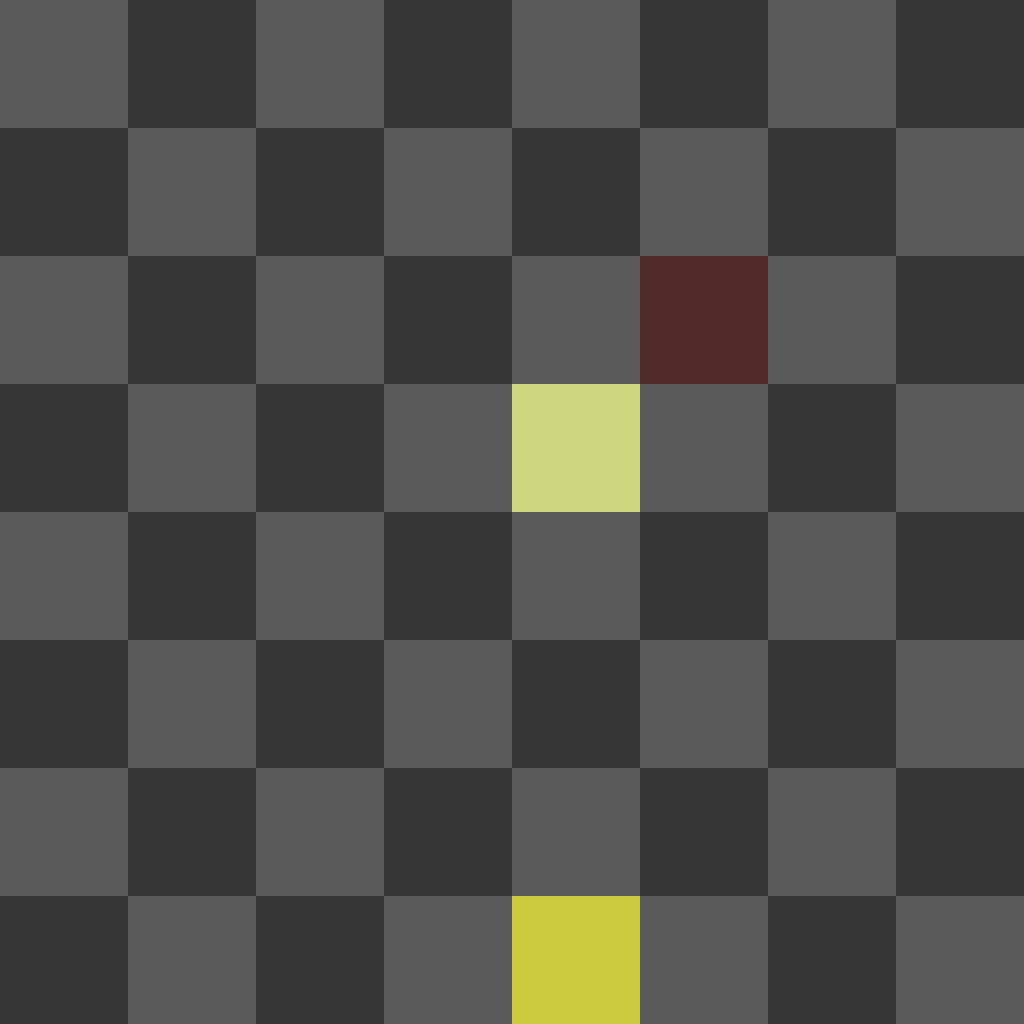
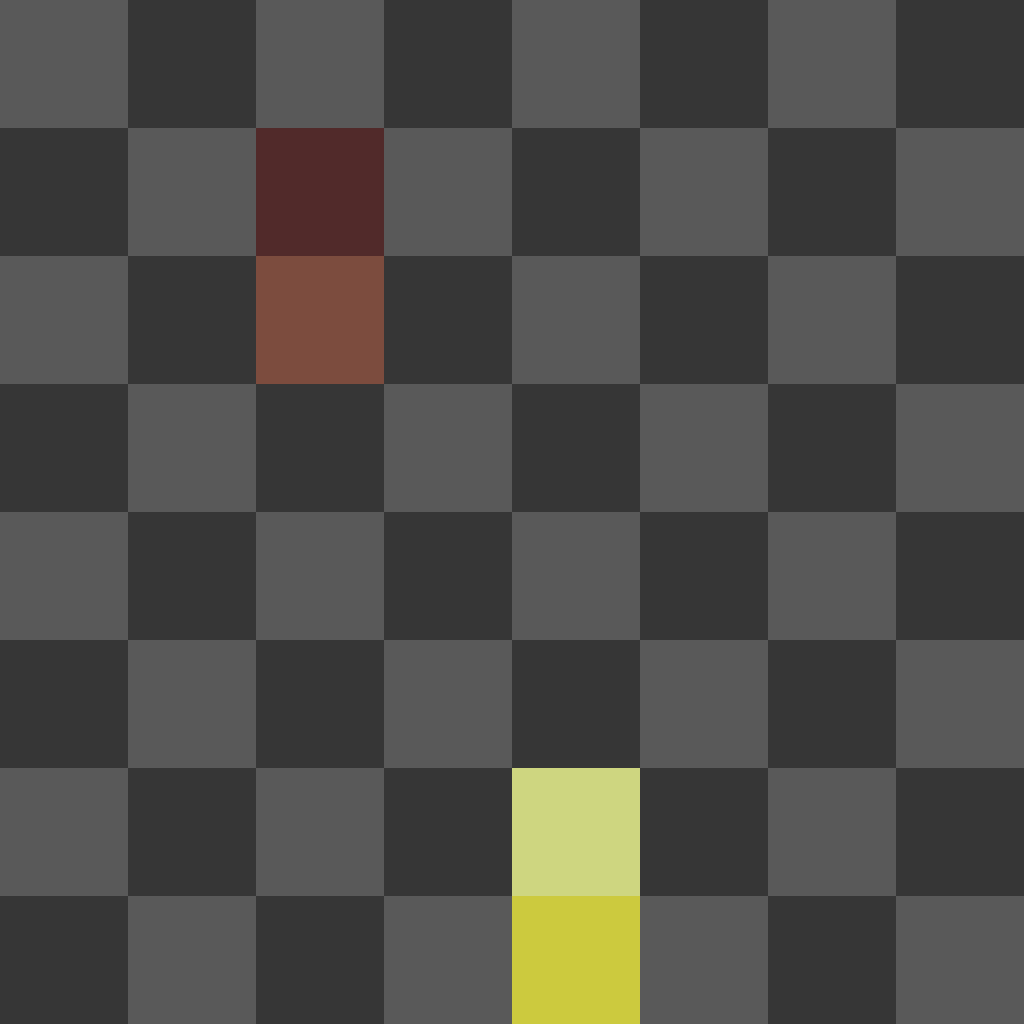
- fix error with win % for black, may still need tweaking as seems very low at the moment

diff --git a/src/board/mod.rs b/src/board/mod.rs
@@ -1,5 +1,5 @@
 use core::str;
-use std::{process::exit, sync::Arc};
+use std::{num, process::exit, sync::Arc};
 
 use image::ImageReader;
 use serde::{Deserialize, Serialize};
@@ -56,28 +56,35 @@ pub struct StockfishResponse {
     continuation: String,
 }
 
-
 pub async fn get_html(url: String) -> Result<String, Error> {
     let res = reqwest::get(url).await;
 
-	if res.is_err() {
-		return Err(Error::BasicError(format!("Error fetching html {:?}", res.err())));
-	}
+    if res.is_err() {
+        return Err(Error::BasicError(format!(
+            "Error fetching html {:?}",
+            res.err()
+        )));
+    }
 
-	let res = res.unwrap();
+    let res = res.unwrap();
 
-	if res.status().as_u16() != 200 {
-		return Err(Error::BasicError(format!("Error fetching html {:?}", res.status())));
-	}
+    if res.status().as_u16() != 200 {
+        return Err(Error::BasicError(format!(
+            "Error fetching html {:?}",
+            res.status()
+        )));
+    }
 
-	let body = res.text().await;
+    let body = res.text().await;
 
-	if body.is_err() {
-		return Err(Error::BasicError(format!("Error fetching html {:?}", body.err())));
-	}
-	
+    if body.is_err() {
+        return Err(Error::BasicError(format!(
+            "Error fetching html {:?}",
+            body.err()
+        )));
+    }
 
-	Ok(body.unwrap())
+    Ok(body.unwrap())
 }
 
 pub async fn get_stock_fish(url: Arc<Mutex<&str>>) -> Result<StockfishResponse, Error> {
@@ -101,13 +108,11 @@ pub async fn parse_html<'a>(
     let url = url.lock().await;
     let url = url.to_string();
 
-	let channel = channel.lock().await;
-	let channel = channel.to_string();
+    let channel = channel.lock().await;
+    let channel = channel.to_string();
     let mut board = [[0u8; 8]; 8];
     // set board at 3, 5 to 1
     let html = get_html(url).await?;
-
-
 
     let dom = tl::parse(html.as_str(), tl::ParserOptions::default()).unwrap();
     // get title
@@ -132,11 +137,9 @@ pub async fn parse_html<'a>(
     let orientation_b = dom.get_elements_by_class_name("player").next();
 
     if orientation_b.is_none() {
-		return Err(Error::BasicError("Orientation not found".to_string()));
+        return Err(Error::BasicError("Orientation not found".to_string()));
     }
-	let orientation_b = orientation_b.unwrap();
-	
-
+    let orientation_b = orientation_b.unwrap();
 
     // let orientation_w = dom.get_elements_by_class_name("orientation-black").next();
     // let classes = orientation_b
@@ -182,34 +185,58 @@ pub async fn parse_html<'a>(
         last_moves_x_y_vec.push((x, y));
     }
 
-	let a = dom.get_elements_by_class_name("player");
+    let a = dom.get_elements_by_class_name("player");
 
-	let mut classes = None;
-	for i in a {
-		// if child a haas href of '/@/{channel}' then we are player
-		let child = i.get(dom.parser()).unwrap().as_tag().unwrap().children().all(dom.parser()).first().unwrap();
-		let href = child.as_tag().unwrap().attributes().get("href").unwrap().unwrap();
-		let href = str::from_utf8(href.as_bytes()).unwrap();
-		if href.to_lowercase().contains(channel.to_lowercase().as_str()) {
-			println!("Player found at index: {:?}", i);
-			classes = Some(i.get(dom.parser()).unwrap().as_tag().unwrap().attributes().class().unwrap());
-			break;
-		}
-	}
+    let mut classes = None;
+    for i in a {
+        // if child a haas href of '/@/{channel}' then we are player
+        let child = i
+            .get(dom.parser())
+            .unwrap()
+            .as_tag()
+            .unwrap()
+            .children()
+            .all(dom.parser())
+            .first()
+            .unwrap();
+        let href = child
+            .as_tag()
+            .unwrap()
+            .attributes()
+            .get("href")
+            .unwrap()
+            .unwrap();
+        let href = str::from_utf8(href.as_bytes()).unwrap();
+        if href
+            .to_lowercase()
+            .contains(channel.to_lowercase().as_str())
+        {
+            println!("Player found at index: {:?}", i);
+            classes = Some(
+                i.get(dom.parser())
+                    .unwrap()
+                    .as_tag()
+                    .unwrap()
+                    .attributes()
+                    .class()
+                    .unwrap(),
+            );
+            break;
+        }
+    }
 
-	if !classes.is_some() {
-		return Err(Error::BasicError("Classes not found".to_string()));
-	}
+    if !classes.is_some() {
+        return Err(Error::BasicError("Classes not found".to_string()));
+    }
 
-	let classes = classes.unwrap();
+    let classes = classes.unwrap();
 
-	// bug here, player is not alwyas the first in the list.
-	let nclasses = classes.as_utf8_str();
-	let nclasses = nclasses.split_whitespace().collect::<Vec<&str>>();
-	println!("classess: {:?}", nclasses.clone());
-	println!("has white: {:?}", nclasses.contains(&"white"));
-    let mode = match nclasses.contains(&"white")
-    {
+    // bug here, player is not alwyas the first in the list.
+    let nclasses = classes.as_utf8_str();
+    let nclasses = nclasses.split_whitespace().collect::<Vec<&str>>();
+    println!("classess: {:?}", nclasses.clone());
+    println!("has white: {:?}", nclasses.contains(&"white"));
+    let mode = match nclasses.contains(&"white") {
         // if white is first then it means our player is black
         true => "w",
         false => "b",
@@ -226,7 +253,7 @@ pub async fn parse_html<'a>(
     let pieces = pieces.unwrap();
 
     if pieces.clone().count() == 0 {
-		return Err(Error::BasicError("Not in an active game".to_string()));
+        return Err(Error::BasicError("Not in an active game".to_string()));
     }
 
     for piece in pieces.clone().into_iter() {
@@ -291,7 +318,7 @@ pub async fn parse_html<'a>(
         for j in 0..8 {
             let piece = board[i][j];
             if piece == 0 {
-                print!("{:<2}, ", piece);
+                print!("{piece:<2}, ");
                 continue;
             }
 
@@ -301,10 +328,7 @@ pub async fn parse_html<'a>(
             let color = match color {
                 1 => "W",
                 2 => "B",
-                _ => panic!(
-                    "Invalid color {:?} at {:?}/{:?}, val {:?}",
-                    color, i, j, board[i][j]
-                ),
+                _ => panic!("Invalid color {color:?} at {i:?}/{j:?}, val {:?}", board[i][j]),
             };
 
             let piece_type = match piece_type {
@@ -317,7 +341,7 @@ pub async fn parse_html<'a>(
                 _ => panic!("Invalid piece type"),
             };
 
-            print!("{:<2}, ", format!("{}{}", color, piece_type));
+            print!("{:<2}, ", format!("{color}{piece_type}"));
         }
         println!();
     }
@@ -381,21 +405,22 @@ pub async fn help<'a>(channel: Arc<Mutex<&'a &str>>) -> Result<GetStockFishRespo
     let ponder = bestmove.split_whitespace().nth(2).unwrap_or_else(|| "None");
     let bestmove = bestmove.split_whitespace().nth(0).unwrap_or_else(|| "None");
     let _eval = match stockfish.evaluation {
-		Some(eval) => eval,
-		None => 0.0,
-	};
-	let mut chance_to_win;
-	if stockfish.evaluation.is_some() {
-		chance_to_win = (stockfish.evaluation.unwrap()) / 153.0;
-		if mode == "b" {
-			chance_to_win = 1.0 - chance_to_win;
-		}
-		chance_to_win = chance_to_win * 100.0;
-	} else {
-		chance_to_win = 0.0;
-	}
+        Some(eval) => eval,
+        None => 0.0,
+    };
+    let mut chance_to_win;
+    if stockfish.evaluation.is_some() {
+        chance_to_win = (stockfish.evaluation.unwrap()) / 153.0;
+		println!("chance to win: {:?}", chance_to_win);
+        if mode == "b" {
+            chance_to_win = -chance_to_win;
+        }
+        chance_to_win = chance_to_win * 100.0;
+    } else {
+        chance_to_win = 0.0;
+    }
 
-	println!("chance to win: {:?}", chance_to_win);
+    println!("chance to win: {:?}", chance_to_win);
 
     println!("Best Move: {:?}", bestmove);
     println!("Ponder: {:?}", ponder);
@@ -461,12 +486,11 @@ pub fn gen_board(
     let last_moved_img = "square brown dark_png_128px.png";
     let last_moved_img1 = "square brown light_png_128px.png";
 
-
-	// get project root
-	let cwd = std::env::current_dir().unwrap();
-    let mut board =
-        image::open(cwd.join("src/assets/board.png")).unwrap_or_else(|_| panic!("Error opening {:?}/assets/board.png", cwd.display()));
-	// /mnt/dev/lichess-stockfish/src/assets/board.png
+    // get project root
+    let cwd = std::env::current_dir().unwrap();
+    let mut board = image::open(cwd.join("src/assets/board.png"))
+        .unwrap_or_else(|_| panic!("Error opening {:?}/assets/board.png", cwd.display()));
+    // /mnt/dev/lichess-stockfish/src/assets/board.png
 
     let mut count = 0;
     for (x, y) in last_moves_x_y_vec {
@@ -493,7 +517,7 @@ pub fn gen_board(
             // ))
             // .unwrap();
 
-			last_moved = ImageReader::open(cwd.join(format!(
+            last_moved = ImageReader::open(cwd.join(format!(
 				"src/assets/JohnPablok Cburnett Chess set/PNGs/No shadow/128h/{}",
 				last_moved_img
 			)))
@@ -505,7 +529,7 @@ pub fn gen_board(
             // ))
             // .unwrap();
 
-			last_moved = ImageReader::open(cwd.join(format!(
+            last_moved = ImageReader::open(cwd.join(format!(
 				"src/assets/JohnPablok Cburnett Chess set/PNGs/No shadow/128h/{}",
 				last_moved_img1
 			)))
@@ -547,9 +571,9 @@ pub fn gen_board(
     if mode == "b" {
         x = 7 - x;
         // y = 7 - y;
-    }  else {
-		y = 7 - y;
-	}
+    } else {
+        y = 7 - y;
+    }
 
     let x = x as usize;
     let y = y as usize;
@@ -583,8 +607,8 @@ pub fn gen_board(
         x = 7 - x;
         // y = 7 - y;
     } else {
-		y = 7 - y;
-	}
+        y = 7 - y;
+    }
 
     let x = x as usize;
     let y = y as usize;
@@ -629,11 +653,17 @@ pub fn gen_board(
     let mut board = board.to_rgba8();
 
     for (piece_name, x, y) in pieces {
-		let mut piece = ImageReader::open(cwd.join(format!(
-			"src/assets/JohnPablok Cburnett Chess set/PNGs/No shadow/128h/{}",
-			piece_name
-		)))
-		.unwrap_or_else(|_| panic!("Error opening {:?}/assets/JohnPablok Cburnett Chess set/PNGs/No shadow/128h/{}", cwd.display(), piece_name));
+        let mut piece = ImageReader::open(cwd.join(format!(
+            "src/assets/JohnPablok Cburnett Chess set/PNGs/No shadow/128h/{}",
+            piece_name
+        )))
+        .unwrap_or_else(|_| {
+            panic!(
+                "Error opening {:?}/assets/JohnPablok Cburnett Chess set/PNGs/No shadow/128h/{}",
+                cwd.display(),
+                piece_name
+            )
+        });
 
         piece.set_format(image::ImageFormat::Png);
         let mut piece = piece.decode().unwrap();
